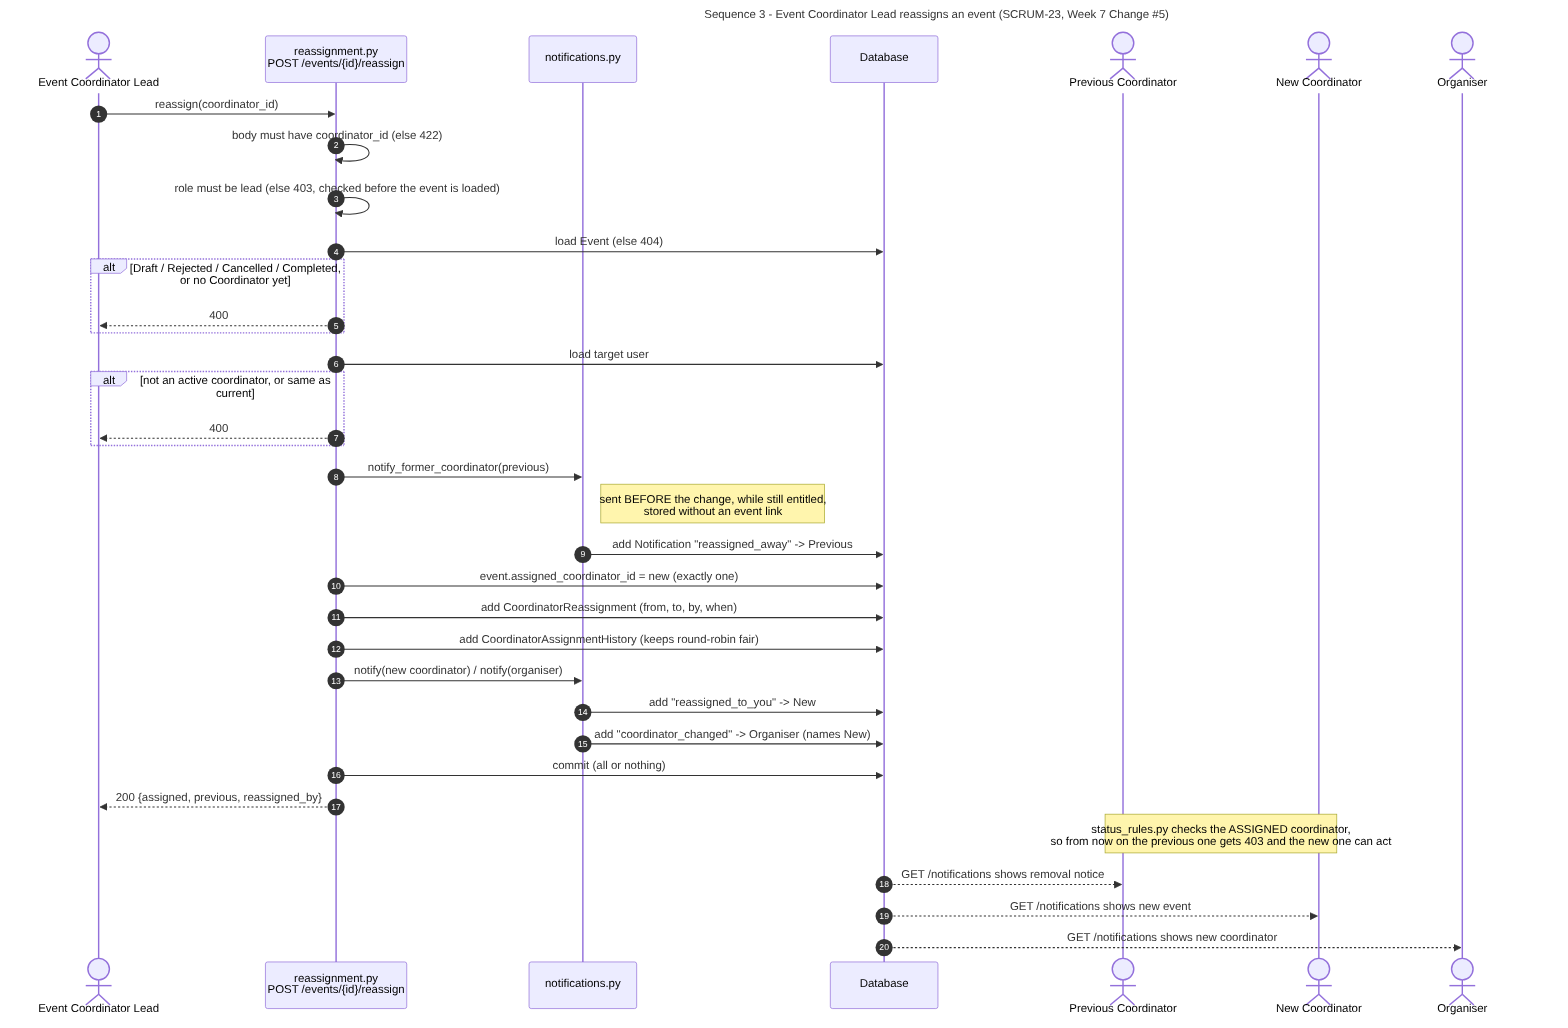
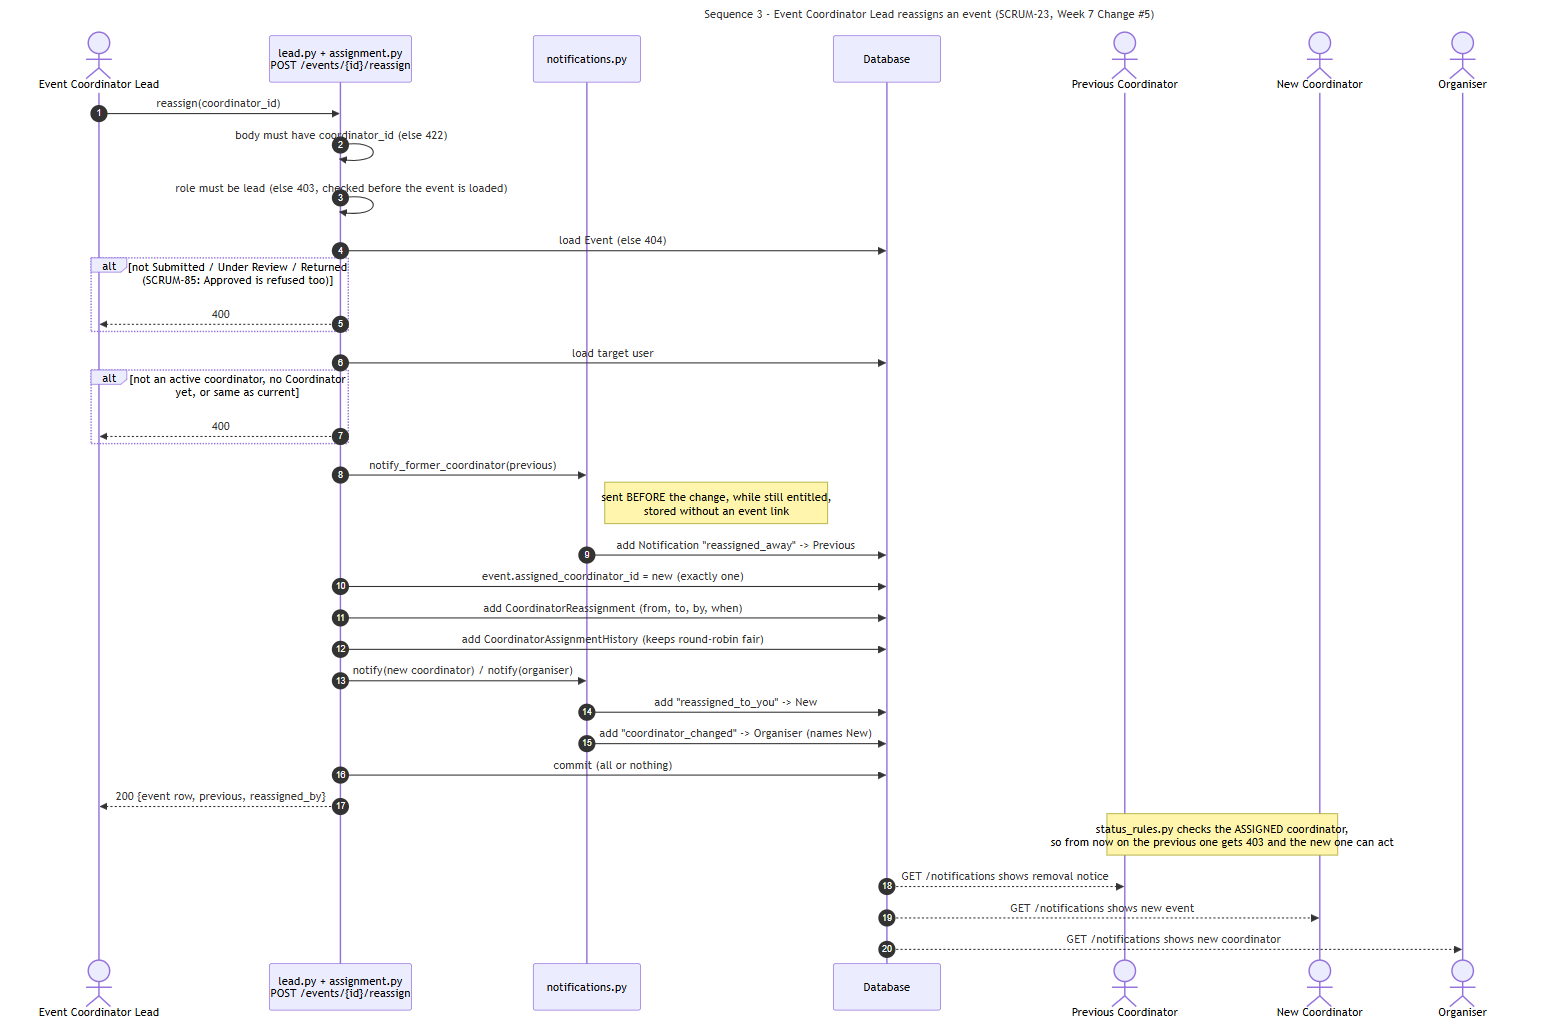
refactor(SCRUM-98): remove the shadowed reassign route, document the legacy coordinator page
- Drop reassignment.py's import and include from main.py. main.py included
  lead_router first, so that POST /events/{event_id}/reassign never ran;
  lead.py's handler (assign_event in assignment.py) is the only one left.
  The file itself was deleted in 672170e by a staging slip; this commit
  completes the removal (672170e alone fails at import).
- Move SCRUM-23's criteria list and team assumptions into
  test_scrum23_reassign.py's docstring, corrected to the live status rule
  (Submitted, Under Review, Returned). Refusing Approved events is the
  known gap on SCRUM-85, not fixed here.
- Keep GET /coordinator/events as SCRUM-24's Sprint 1 evidence, marked
  deprecated=True with a docstring saying why; note it and
  coordinator_page_preview.html in the README.
- Update sequence diagram 3 to the live handler and re-render its PNG.

No runtime behaviour changes. TC-9801 and TC-9802 pass; full suite 538
passed, 1 skipped (DATABASE_URL=sqlite:///:memory:).

diff --git a/backend/tests/test_scrum23_reassign.py b/backend/tests/test_scrum23_reassign.py
@@ -1,7 +1,42 @@
 """SCRUM-23: Event Coordinator Lead reassigns an event to a different Coordinator.
 
-Each test names the acceptance criterion it proves (numbering as in
-backend/reassignment.py).
+Rewritten per Week 7 Customer Change 5: the Lead reassigns (the 10 Sep
+handshake between Coordinators is superseded). The handler is
+POST /events/{event_id}/reassign in backend/lead.py, which calls
+assign_event() in backend/assignment.py. This list moved here from
+backend/reassignment.py, whose handler was shadowed by lead.py's and never
+ran; it was removed in SCRUM-98.
+
+Acceptance criteria (each test names the one it proves):
+  Lead role
+    AC1  There is an Event Coordinator Lead role, with a seeded Lead account
+         (``lead1`` in seed_users.py).
+    AC2  The Lead can view all events and each event's current Coordinator
+         (GET /lead/events).
+  Reassignment
+    AC3  Only the Lead can reassign. Any other role is refused, including by
+         a direct API call.
+    AC4  After reassignment the event has exactly one assigned Coordinator.
+    AC5  The previous Coordinator can no longer manage the event; the new one
+         can. status_rules.py only lets the *assigned* Coordinator act, so
+         moving the assignment moves the permission.
+    AC6  Each reassignment is recorded (by whom, from, to, when) in
+         CoordinatorReassignment.
+    AC7  The Organiser sees the current Coordinator (GET /events).
+  Notification
+    AC8  The previous Coordinator, the new Coordinator and the Organiser are
+         notified (via the SCRUM-51 notification functions).
+
+Team assumptions, as the live handler implements them:
+  * Only a request that is Submitted, Under Review or Returned, and already
+    has a Coordinator, can be reassigned. Any other status is refused with
+    400: a Draft (no Coordinator yet), a finished request (Rejected,
+    Cancelled, Completed) and also an Approved one. Refusing Approved events
+    is a known gap, recorded on SCRUM-85.
+  * The new Coordinator must be an active Coordinator, and different from the
+    current one (400 otherwise).
+  * The former Coordinator's notification stays in their list but is not
+    linked to the event, since they can no longer open it.
 """
 
 import os

diff --git a/backend/coordinator.py b/backend/coordinator.py
@@ -13,7 +13,9 @@ Acceptance criteria covered:
 The page is rendered by the backend rather than by a separate frontend app,
 because the frontend framework is still undecided. The same rows are also
 available as JSON at /coordinator/events/data, so whatever the team chooses
-later can read them without this file changing.
+later can read them without this file changing. The Alpine.js frontend now
+does exactly that, so the page is kept only as deprecated Sprint 1 evidence
+(SCRUM-98; see assigned_requests_page).
 
 "Awaiting first review" means the request is still Submitted: nobody has
 started reviewing it. Once the assigned Coordinator starts a review
@@ -275,12 +277,17 @@ def render_page(coordinator: User, requests: List[Dict]) -> str:
 </html>"""
 
 
-@router.get("/events", response_class=HTMLResponse)
+@router.get("/events", response_class=HTMLResponse, deprecated=True)
 def assigned_requests_page(
     current_user: User = Depends(get_current_user),
     db: Session = Depends(get_db),
 ):
-    """Where a Coordinator lands after logging in."""
+    """SCRUM-24's Sprint 1 HTML preview of the assigned-requests list.
+
+    Deprecated (SCRUM-98): the app's Coordinator screen reads
+    /coordinator/events/data instead. Kept because SCRUM-24's tests
+    (TC-301 to TC-311) request this page and are that story's evidence.
+    """
     require_coordinator(current_user)
     requests = assigned_requests(db, current_user)
     return HTMLResponse(content=render_page(current_user, requests))

diff --git a/backend/main.py b/backend/main.py
@@ -9,7 +9,6 @@ from .events import router as events_router
 from .lead import router as lead_router
 from .models import Base
 from .notifications import router as notifications_router
-from .reassignment import router as reassignment_router
 from .suitability import router as suitability_router
 from .venue_calendar import router as venue_calendar_router
 from .venue_holds import router as venue_holds_router, run_hold_checks  # [SCRUM-81 | Elnathan]
@@ -44,7 +43,6 @@ app.include_router(coordinator_router)
 app.include_router(equipment_router)  # [SCRUM-39 | Melvin]
 app.include_router(lead_router)
 app.include_router(notifications_router, dependencies=HOLD_CHECKS)
-app.include_router(reassignment_router)
 app.include_router(venues_router, dependencies=HOLD_CHECKS)
 app.include_router(venue_calendar_router)
 app.include_router(suitability_router)

diff --git a/README.md b/README.md
@@ -72,6 +72,9 @@ Open `http://localhost:5173`. Vite proxies `/auth`, `/events`, and
 `/coordinator`, `/lead`, and `/notifications` to `http://localhost:8000`, preserving same-origin cookie
 behavior during development.
 
+The backend's `GET /coordinator/events` (what `/coordinator/events` without the `#` reaches) is SCRUM-24's Sprint 1 server-rendered page, deprecated and kept as that story's test evidence; the app's Coordinator screen reads `/coordinator/events/data`.
+`coordinator_page_preview.html` in the repository root is a static snapshot of that page, kept as Sprint 1 evidence.
+
 Credentialed CORS is currently enabled for `http://localhost:3000`,
 `http://127.0.0.1:3000`, `http://localhost:5173`, and
 `http://127.0.0.1:5173`. Serve the frontend over HTTP rather than opening
